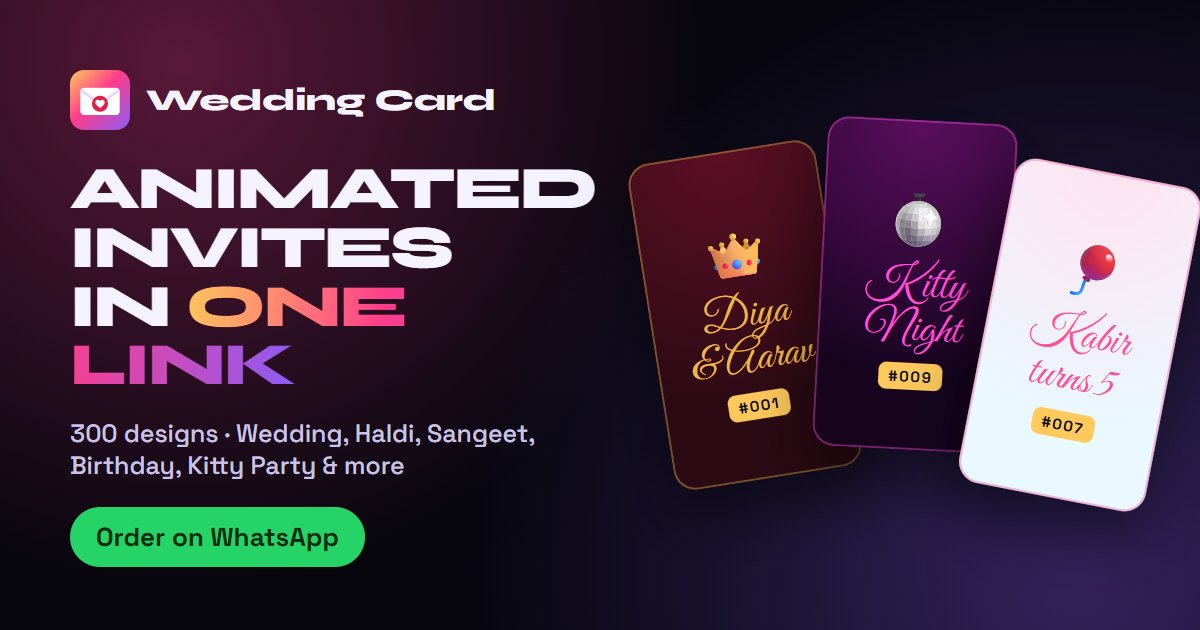
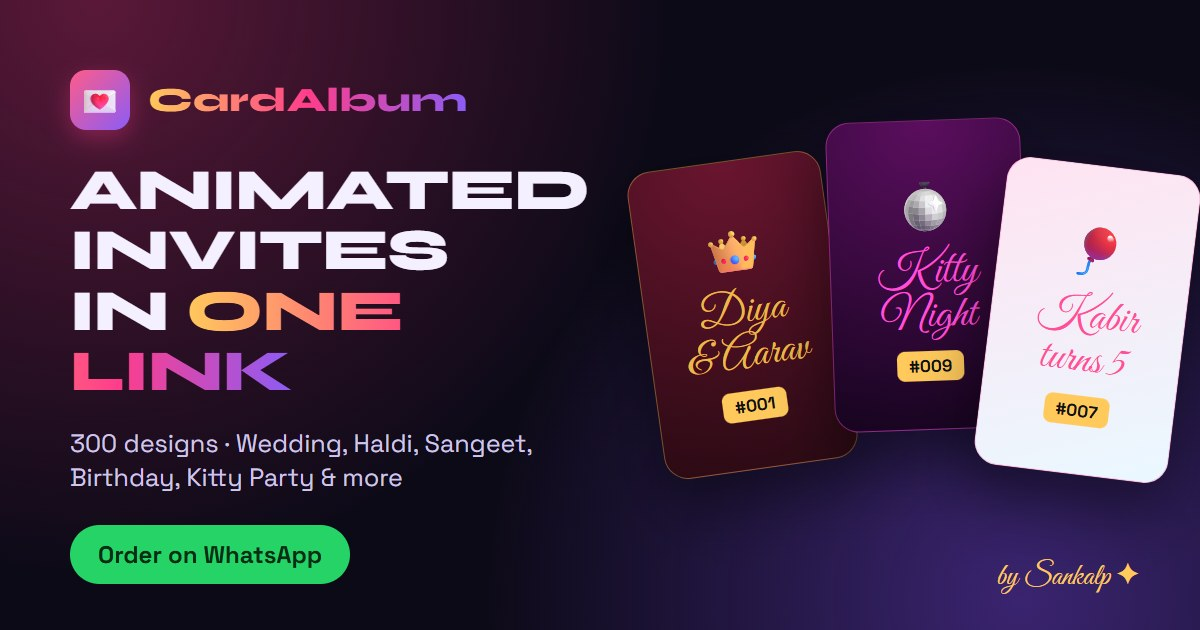
Rename brand to CardAlbum; creative designer badge; phone layout fixes
- Brand "Wedding Card" -> "CardAlbum" (matches cardalbum.vercel.app) on every page, the manifest and a new share image
- Footer signature: rotating gradient border, wax-seal S, pen that writes the underline, orbiting sparkles
- Posters: "by Sankalp" under the button, room for the Trending badge, compact on phones
- Cards: sections waiting to appear no longer widen the page on phones (fixes long names on split layout)

diff --git a/css/style.css b/css/style.css
@@ -698,3 +698,80 @@ body[data-tab="trending"] :is(.hero, .marquee-wrap, .bento, #templates, .how, #o
 @media (prefers-reduced-motion: reduce) { .p-scene::before, .p-scene::after, .l-orbit .p-emoji::after { animation: none !important; } }
 /* The sunray hint only belongs to mandala and sunburst designs; the background scene does the rest */
 .poster:not(.d-mandala):not(.d-sunburst):not(.d-blobs)::before { display: none; }
+
+/* ---------- Signature, designer badge: rotating gradient border, wax-seal monogram, a pen that writes the
+   underline, orbiting sparkles. Transform/opacity only; it plays when it scrolls into view (.in). ---------- */
+.signature { position: relative; padding: 0; margin: 34px auto 0; text-decoration: none; }
+.sig-card { position: relative; display: flex; align-items: center; gap: 18px; padding: 16px 28px 14px 18px; border-radius: 26px; overflow: hidden; isolation: isolate;
+  box-shadow: 0 22px 60px rgba(0,0,0,.4), 0 0 40px rgba(255,61,139,.12); transition: transform .4s cubic-bezier(.2,.9,.3,1.3), box-shadow .4s; }
+.sig-card::before { content: ''; position: absolute; left: 50%; top: 50%; width: 560px; height: 560px; margin: -280px 0 0 -280px; z-index: -2;
+  background: conic-gradient(from 0deg, transparent 0 55%, #ffc95c 68%, #ff3d8b 78%, #8b5cf6 88%, #22d3ee 96%, transparent);
+  animation: spinPoster 5s linear infinite; }
+.sig-card::after { content: ''; position: absolute; inset: 1.5px; z-index: -1; border-radius: 25px;
+  background: radial-gradient(circle at 15% 50%, rgba(255,61,139,.16), transparent 45%), linear-gradient(135deg, #1a1230, #0f0b1e); }
+.signature:hover .sig-card { transform: translateY(-4px) scale(1.02); box-shadow: 0 28px 70px rgba(0,0,0,.45), 0 0 60px rgba(139,92,246,.3); }
+.signature:hover .sig-card::before { animation-duration: 1.6s; }
+
+/* Wax seal with the monogram: it stamps down, then a shine passes over it */
+.sig-seal { position: relative; flex: none; display: grid; place-items: center; width: 62px; height: 62px; border-radius: 50%; overflow: hidden;
+  background: radial-gradient(circle at 35% 30%, #ff5c8a, #b0124a 60%, #6d0630); box-shadow: inset 0 0 0 3px rgba(255,255,255,.12), inset 0 0 0 7px rgba(0,0,0,.18), 0 6px 18px rgba(176,18,74,.5);
+  opacity: 0; transform: scale(2.2) rotate(-40deg); }
+.sig-seal::before { content: ''; position: absolute; inset: 9px; border-radius: 50%; border: 1.5px dashed rgba(255,231,176,.55); }
+.sig-seal::after { content: ''; position: absolute; top: -20%; bottom: -20%; width: 40%; left: -60%; transform: skewX(-20deg); background: linear-gradient(90deg, transparent, rgba(255,255,255,.55), transparent); }
+.sig-seal b { position: relative; font: 400 2.3rem/1 'Great Vibes', cursive; color: #ffe7b0; text-shadow: 0 2px 0 rgba(0,0,0,.25); padding-top: 4px; }
+.signature.in .sig-seal { animation: sealStamp .7s cubic-bezier(.3,1.4,.5,1) .15s both; }
+.signature.in .sig-seal::after { animation: sealShine 3.6s ease-in-out 1.2s infinite; }
+
+.sig-text { display: grid; justify-items: start; text-align: left; }
+.sig-name { margin-left: -.06em; }
+.sig-ink { position: relative; width: 190px; height: 14px; margin-top: -8px; }
+.sig-ink .sig-line { position: absolute; inset: 0; width: 100%; height: 100%; margin: 0; }
+/* The pen follows the underline while it is drawn, then lifts away */
+.sig-pen { position: absolute; left: 0; top: 0; font-size: 1.05rem; font-style: normal; opacity: 0; offset-rotate: 0deg; offset-anchor: 10% 90%;
+  offset-path: path('M3.8 8.5 C 47.5 1.9, 85.5 13.3, 123.5 5.7 S 175.8 3.8, 186.2 7.6'); }
+.signature.in .sig-pen { animation: penWrite 1.4s ease 1s both; }
+.sig-role { margin-top: 4px; font-size: .64rem; font-weight: 700; letter-spacing: .22em; text-transform: uppercase; opacity: 0; transform: translateY(6px);
+  background: linear-gradient(90deg, #ffc95c, #ff3d8b, #8b5cf6, #ffc95c) 0 0 / 300% 100%; -webkit-background-clip: text; background-clip: text; color: transparent; }
+.signature.in .sig-role { animation: sigDrop .8s ease 2.2s both, roleFlow 6s linear 3s infinite; }
+
+/* Sparkles circling the seal */
+.sig-spark { position: absolute; left: 49px; top: 50%; margin: -.5em 0 0 -.4em; font-size: .75rem; font-style: normal; color: #ffc95c; pointer-events: none; opacity: 0;
+  transform: rotate(var(--a)) translateX(46px) rotate(calc(-1 * var(--a))); }
+.sig-spark:nth-of-type(even) { color: #ff8fc0; font-size: .6rem; }
+.signature.in .sig-spark { animation: sparkOrbit 9s linear var(--d) infinite, sparkBlink 2.4s ease-in-out var(--d) infinite; }
+
+@keyframes sealStamp { 0% { opacity: 0; transform: scale(2.2) rotate(-40deg); } 70% { opacity: 1; transform: scale(.92) rotate(4deg); } 100% { opacity: 1; transform: none; } }
+@keyframes sealShine { 0%, 60% { left: -60%; } 100% { left: 130%; } }
+@keyframes penWrite { 0% { opacity: 0; offset-distance: 0%; } 8%, 85% { opacity: 1; } 100% { opacity: 0; offset-distance: 100%; } }
+@keyframes sparkBlink { 0%, 100% { opacity: 0; } 50% { opacity: 1; } }
+@keyframes roleFlow { to { background-position: 300% 0; } }
+@keyframes sparkOrbit { from { transform: rotate(var(--a)) translateX(46px) rotate(calc(-1 * var(--a))); } to { transform: rotate(calc(var(--a) + 360deg)) translateX(46px) rotate(calc(-1 * var(--a) - 360deg)); } }
+@media (max-width: 380px) {
+  .sig-card { gap: 12px; padding: 14px 18px 12px 14px; }
+  .sig-seal { width: 52px; height: 52px; }
+  .sig-spark { left: 40px; }
+}
+
+/* Posters: "by Sankalp" sits under the button (never on it), and a Trending badge gets its own room at the top */
+.p-by { position: static; margin-top: -4px; }
+.p-play { margin-bottom: 0; }
+.poster:has(.p-badge) { padding-top: 40px; }
+.l-ticket .p-tag { display: none; }
+.l-ticket .p-date { margin-bottom: -2px; }
+
+/* Narrow posters (two per row on phones): everything, button and signature included, fits inside */
+@media (max-width: 600px) {
+  .poster { gap: 5px; padding: 14px 10px; }
+  .poster:has(.p-badge) { padding-top: 34px; }
+}
+@container (max-width: 175px) {
+  .p-by { font-size: .78rem; margin-top: -2px; }
+  .p-play { margin-top: 2px; }
+  .p-body { gap: 5px; }
+  .f-ring .p-emoji, .f-halo .p-emoji, .f-blob .p-emoji { width: 50px; height: 50px; font-size: 1.6rem; }
+  .f-arch .p-emoji { width: 44px; height: 58px; font-size: 1.5rem; }
+  .f-polaroid .p-emoji { width: 46px; height: 54px; font-size: 1.5rem; padding-bottom: 9px; }
+  .l-ticket .p-title { display: none; }
+  .l-ticket .p-body { padding: 10px 8px; }
+  .l-arch .p-body { padding: 24px 8px 10px; }
+}

diff --git a/index.html b/index.html
@@ -3,21 +3,21 @@
 <head>
   <meta charset="utf-8">
   <meta name="viewport" content="width=device-width,initial-scale=1">
-  <title>Animated Wedding &amp; Party Invitations in One Link</title>
+  <title>CardAlbum · Animated Wedding &amp; Party Invitations in One Link</title>
   <meta name="description" content="Animated wedding, haldi, sangeet, birthday, kitty party and ceremony invitations. One link on WhatsApp — every guest gets the full show.">
   <meta property="og:type" content="website">
-  <meta property="og:site_name" content="Wedding Card">
+  <meta property="og:site_name" content="CardAlbum">
   <meta property="og:title" content="Animated invitations in one magic link 💌">
   <meta property="og:description" content="300 animated designs (30 per occasion) for weddings, haldi, sangeet, birthdays and kitty parties. One link on WhatsApp, the full show for every guest.">
   <meta property="og:url" content="https://cardalbum.vercel.app/">
-  <meta property="og:image" content="https://cardalbum.vercel.app/img/og-site.jpg">
-  <meta property="og:image:secure_url" content="https://cardalbum.vercel.app/img/og-site.jpg">
+  <meta property="og:image" content="https://cardalbum.vercel.app/img/og-site.jpg?v=2">
+  <meta property="og:image:secure_url" content="https://cardalbum.vercel.app/img/og-site.jpg?v=2">
   <meta property="og:image:type" content="image/jpeg">
   <meta property="og:image:width" content="1200">
   <meta property="og:image:height" content="630">
   <meta property="og:image:alt" content="Animated invitation designs">
   <meta name="twitter:card" content="summary_large_image">
-  <meta name="twitter:image" content="https://cardalbum.vercel.app/img/og-site.jpg">
+  <meta name="twitter:image" content="https://cardalbum.vercel.app/img/og-site.jpg?v=2">
   <meta name="theme-color" content="#07060f">
   <link rel="icon" href="img/favicon.svg" type="image/svg+xml">
   <link rel="icon" href="img/favicon-32.png" sizes="32x32" type="image/png">
@@ -33,7 +33,7 @@
   <div class="cursor-glow" aria-hidden="true"></div>
 
   <nav class="nav">
-    <a class="logo" href="#top">💌 <span class="brand">Wedding Card</span></a>
+    <a class="logo" href="#top">💌 <span class="brand">CardAlbum</span></a>
     <div class="nav-links">
       <a href="#templates">Templates</a>
       <a href="#how">How it works</a>
@@ -128,12 +128,24 @@
   </section>
 
   <footer class="foot">
-    <p>💌 <span class="brand">Wedding Card</span> · Animated invitations in one link</p>
+    <p>💌 <span class="brand">CardAlbum</span> · Animated invitations in one link</p>
     <p id="social"></p>
     <a class="signature" id="signature" href="#top" aria-label="Crafted with love by Sankalp">
-      <span class="sig-pre" aria-hidden="true">crafted with <i class="sig-heart">♥</i> by</span>
-      <span class="sig-name" aria-hidden="true"><b style="--i:0">S</b><b style="--i:1">a</b><b style="--i:2">n</b><b style="--i:3">k</b><b style="--i:4">a</b><b style="--i:5">l</b><b style="--i:6">p</b><i class="sig-star">✦</i></span>
-      <svg class="sig-line" viewBox="0 0 200 14" aria-hidden="true"><path d="M4 9 C 50 2, 90 14, 130 6 S 185 4, 196 8"/></svg>
+      <span class="sig-card" aria-hidden="true">
+        <span class="sig-seal"><b>S</b></span>
+        <span class="sig-text">
+          <span class="sig-pre">crafted with <i class="sig-heart">♥</i> by</span>
+          <span class="sig-name"><b style="--i:0">S</b><b style="--i:1">a</b><b style="--i:2">n</b><b style="--i:3">k</b><b style="--i:4">a</b><b style="--i:5">l</b><b style="--i:6">p</b><i class="sig-star">✦</i></span>
+          <span class="sig-ink">
+            <svg class="sig-line" viewBox="0 0 200 14"><path d="M4 9 C 50 2, 90 14, 130 6 S 185 4, 196 8"/></svg>
+            <i class="sig-pen">✒</i>
+          </span>
+          <span class="sig-role">Designer · Invitations that wow</span>
+        </span>
+      </span>
+      <i class="sig-spark" style="--a:0deg;--d:0s" aria-hidden="true">✦</i><i class="sig-spark" style="--a:60deg;--d:-1s" aria-hidden="true">✧</i>
+      <i class="sig-spark" style="--a:130deg;--d:-2.2s" aria-hidden="true">✦</i><i class="sig-spark" style="--a:200deg;--d:-.6s" aria-hidden="true">✧</i>
+      <i class="sig-spark" style="--a:260deg;--d:-3s" aria-hidden="true">✦</i><i class="sig-spark" style="--a:320deg;--d:-1.7s" aria-hidden="true">✧</i>
     </a>
   </footer>
 

diff --git a/admin.html b/admin.html
@@ -3,7 +3,7 @@
 <head>
   <meta charset="utf-8">
   <meta name="viewport" content="width=device-width,initial-scale=1">
-  <title>Admin Panel · Wedding Card</title>
+  <title>Admin Panel · CardAlbum</title>
   <meta name="theme-color" content="#07060f">
   <meta name="robots" content="noindex, nofollow">
   <link rel="icon" href="img/favicon.svg" type="image/svg+xml">
@@ -19,7 +19,7 @@
   <div class="aurora" aria-hidden="true"><i></i><i></i><i></i></div>
 
   <aside class="side">
-    <a class="logo" href="index.html">💌 <span>Wedding Card</span></a>
+    <a class="logo" href="index.html">💌 <span>CardAlbum</span></a>
     <p class="side-tag">Admin panel</p>
     <nav class="side-nav">
       <a href="#create">✨ <span>Create<em> invite</em></span></a>
@@ -36,7 +36,7 @@
 
   <main class="admin-main">
     <header class="m-head">
-      <a class="logo" href="index.html">💌 <span>Wedding Card</span></a>
+      <a class="logo" href="index.html">💌 <span>CardAlbum</span></a>
       <div class="link-actions">
         <a class="btn-small" id="siteLinkM" href="index.html" target="_blank" rel="noopener">🏠 Website</a>
         <button type="button" class="btn-small danger" data-logout hidden>🚪 Logout</button>
@@ -267,7 +267,7 @@
   <!-- Login (when connected to the database) -->
   <div class="login-screen" id="loginScreen" hidden>
     <form class="login-box" id="loginForm" autocomplete="on" novalidate>
-      <a class="logo" href="index.html">💌 <span>Wedding Card</span></a>
+      <a class="logo" href="index.html">💌 <span>CardAlbum</span></a>
       <h1 id="loginTitle">Admin login</h1>
       <p class="muted" id="loginNote">Log in with your admin email and password.</p>
       <label id="emailRow">Email <input name="email" type="email" autocomplete="username" inputmode="email"></label>

diff --git a/css/card.css b/css/card.css
@@ -615,7 +615,7 @@ body:not(.pf-ring) .photo, body:not(.pf-ring) .photo img { animation: none; }
 .rv-flip .reveal { transform: perspective(900px) rotateX(-32deg) translateY(30px); transform-origin: 50% 0; }
 .rv-slide .reveal { transform: translateX(-70px); }
 .rv-slide .reveal:nth-child(even) { transform: translateX(70px); }
-.rv-blur .reveal { transform: translateY(24px) scale(1.04); filter: blur(12px); transition-property: opacity, transform, filter; }
+.rv-blur .reveal { transform: translateY(24px); filter: blur(12px); transition-property: opacity, transform, filter; }
 .rv-wipe .reveal { transform: none; clip-path: inset(0 0 100% 0); transition: opacity .7s ease, clip-path 1.2s cubic-bezier(.7,0,.2,1); transition-delay: calc(var(--i, 0) * 120ms); }
 body[class] .reveal.in { transform: none; filter: none; }
 .rv-wipe .reveal.in { clip-path: inset(-40% -40% -40% -40%); }
@@ -717,3 +717,6 @@ body[class] .reveal.in { transform: none; filter: none; }
 @keyframes edIn { from { opacity: 0; transform: translate(-50%, -38%) scale(.85); } }
 @keyframes barGrow { from { transform: scaleX(0); } }
 @keyframes sigWrite { from { clip-path: inset(0 100% 0 0); } to { clip-path: inset(0 -10% 0 0); } }
+
+/* Sections that slide or grow in while waiting to appear must never widen the page on a phone */
+main { overflow-x: hidden; overflow-x: clip; }

diff --git a/tests/unit.test.js b/tests/unit.test.js
@@ -245,7 +245,8 @@ test.describe('Publishing', () => {
     }
     for (const [f, img] of [['index.html', 'og-site.jpg'], ['card.html', 'og-invite.jpg']]) {
       const html = fs.readFileSync(path.join(ROOT, f), 'utf8');
-      assert.ok(html.includes(`<meta property="og:image" content="https://cardalbum.vercel.app/img/${img}">`), `${f} preview image`);
+      // A ?v=N after the file name makes WhatsApp fetch a changed picture instead of its cached one.
+      assert.match(html, new RegExp(`<meta property="og:image" content="https://cardalbum\\.vercel\\.app/img/${img.replace('.', '\\.')}(\\?v=\\d+)?">`), `${f} preview image`);
       for (const tag of ['og:title', 'og:description', 'og:url', 'og:image:width', 'twitter:card']) assert.ok(html.includes(tag), `${f}: ${tag}`);
       // WhatsApp shows no preview image when it is over ~300 KB; keep well under.
       assert.ok(fs.statSync(path.join(ROOT, 'img', img)).size < 200 * 1024, `${img} too big for WhatsApp`);

diff --git a/card.html b/card.html
@@ -6,7 +6,7 @@
   <title>You're Invited 💌</title>
   <meta name="description" content="Open your animated invitation">
   <meta property="og:type" content="website">
-  <meta property="og:site_name" content="Wedding Card">
+  <meta property="og:site_name" content="CardAlbum">
   <meta property="og:title" content="You're Invited 💌">
   <meta property="og:description" content="Tap to open your animated invitation: envelope, music, countdown and RSVP.">
   <meta property="og:url" content="https://cardalbum.vercel.app/card.html">

diff --git a/middleware.js b/middleware.js
@@ -45,6 +45,6 @@ export default async function middleware(request) {
   if (await loginOk(request.headers.get('authorization'), env)) return; // carry on to the file
   return new Response('Login needed for the admin panel.', {
     status: 401,
-    headers: { 'WWW-Authenticate': 'Basic realm="Wedding Card admin", charset="UTF-8"', 'Cache-Control': 'no-store' }
+    headers: { 'WWW-Authenticate': 'Basic realm="CardAlbum admin", charset="UTF-8"', 'Cache-Control': 'no-store' }
   });
 }

diff --git a/js/config.js b/js/config.js
@@ -4,7 +4,7 @@
 // e.g. "47": { "name": "...", "occasion": "wedding", "price": 1499, "hidden": true, "featured": true }.
 const SITE = {
   "url": "https://cardalbum.vercel.app/",
-  "brand": "Wedding Card",
+  "brand": "CardAlbum",
   "whatsapp": "919318371733",
   "instagram": "",
   "price": "",

diff --git a/README.md b/README.md
@@ -1,4 +1,4 @@
-# 💌 Wedding Card
+# 💌 CardAlbum
 
 Animated invitations for weddings, sangeet, engagements, kitty parties, birthdays, kids' parties, baby showers, naming ceremonies, pujas and anniversaries.
 
